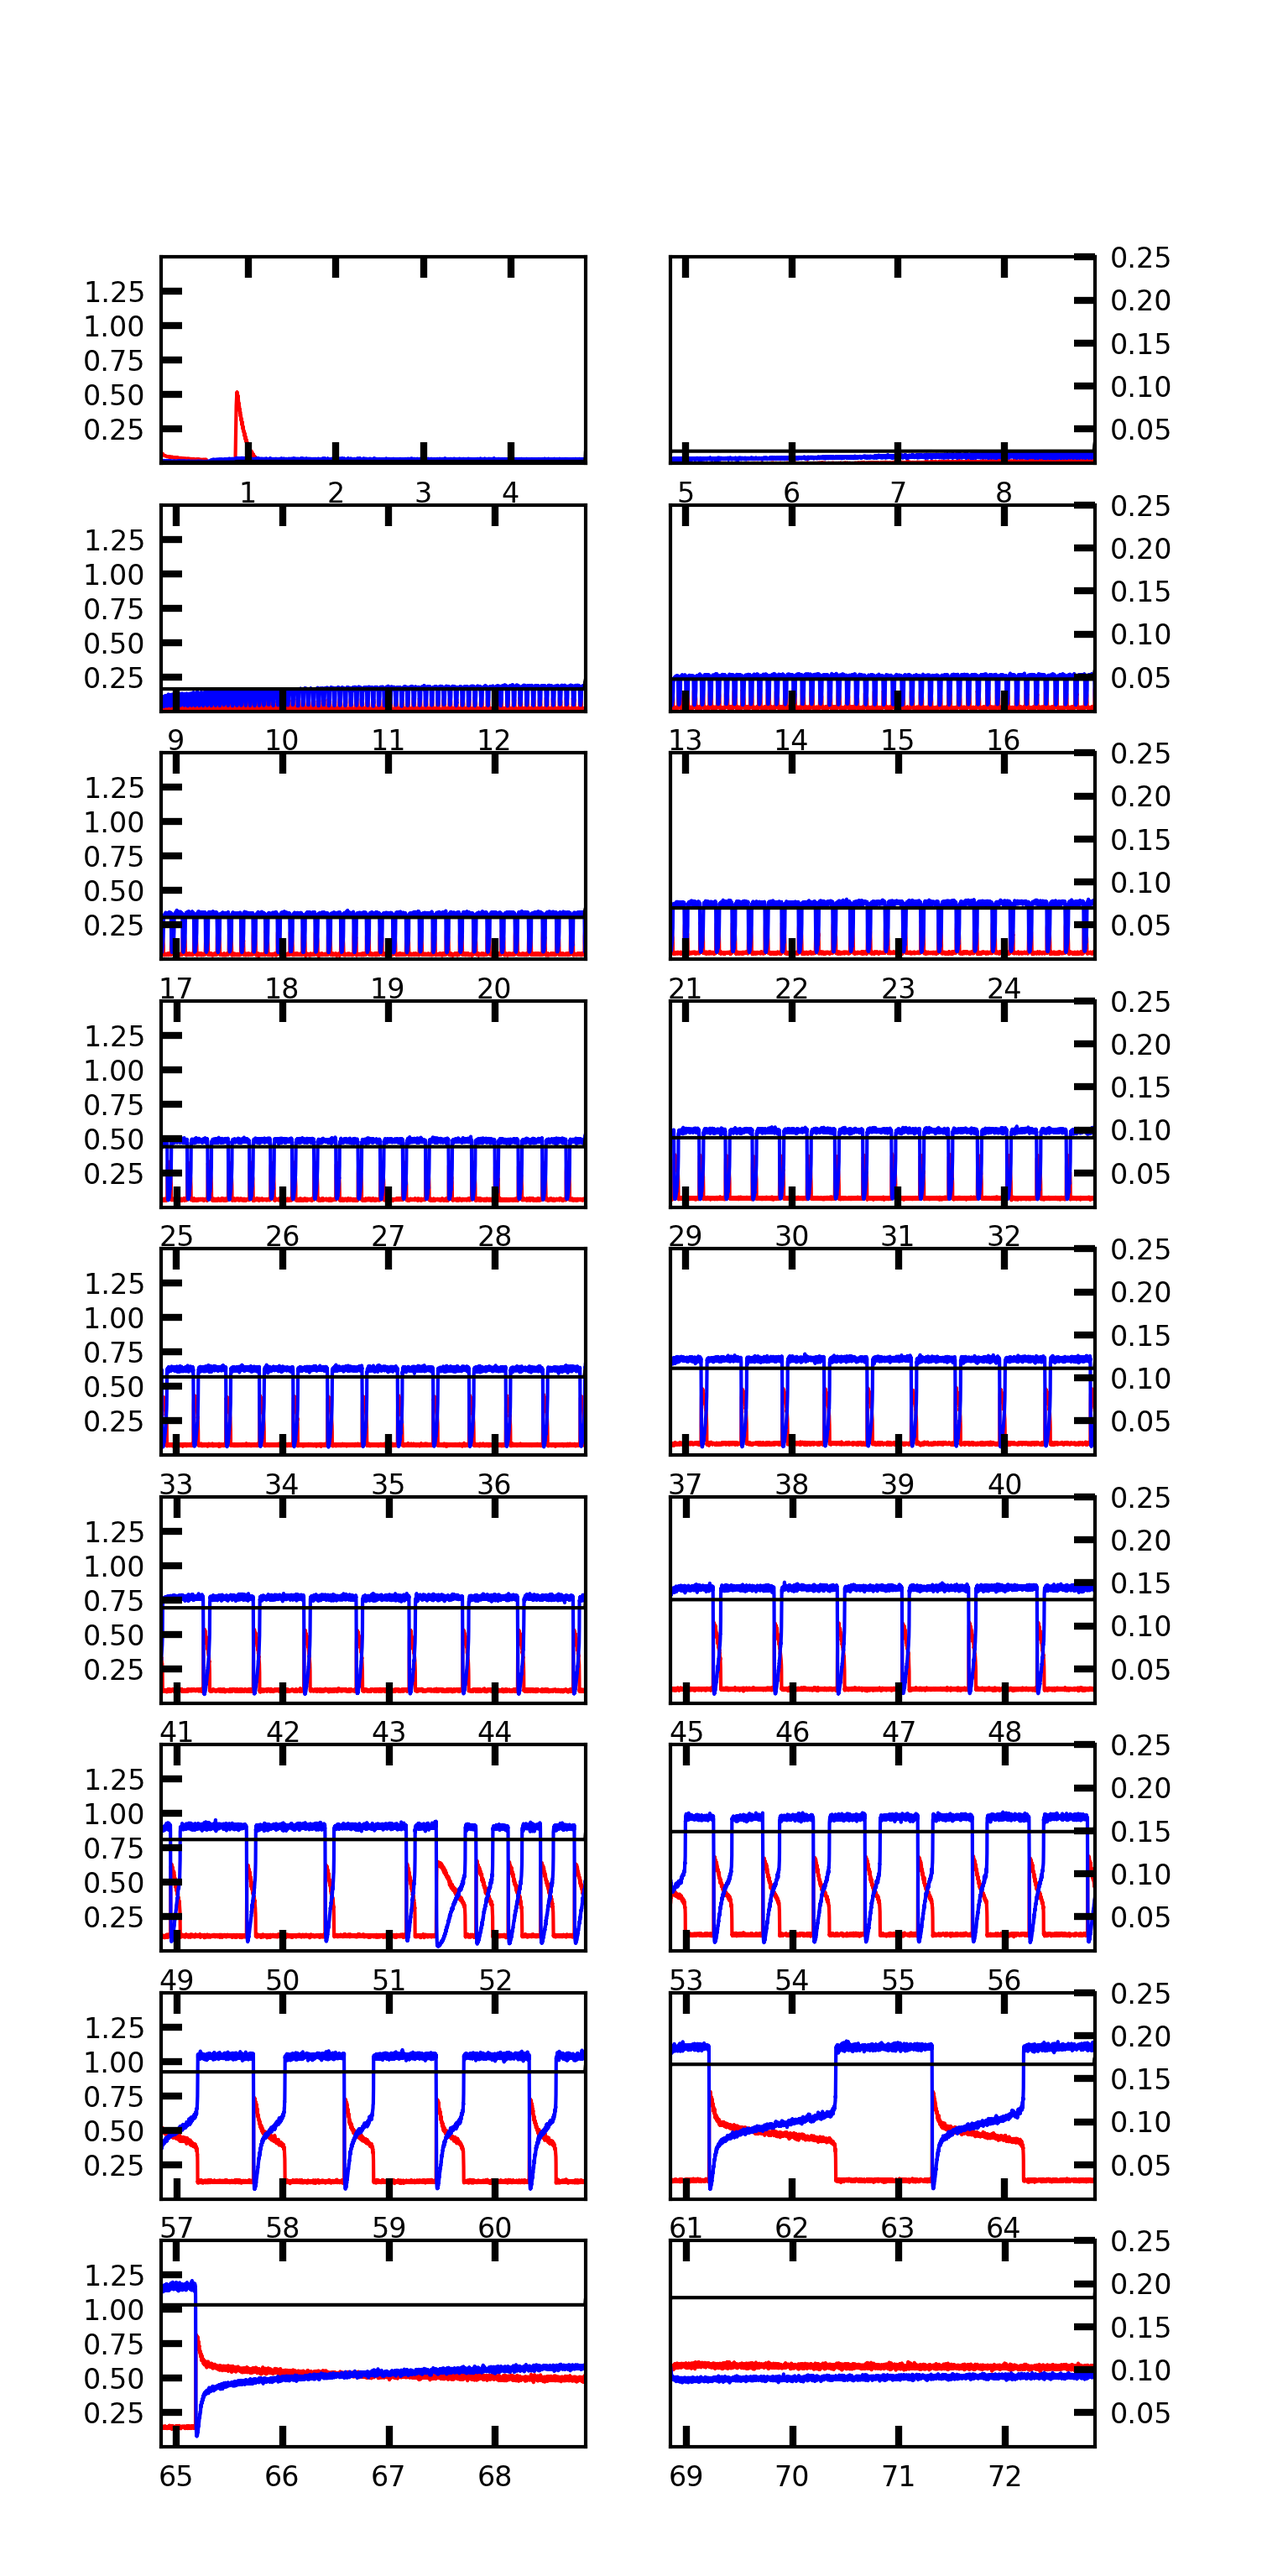
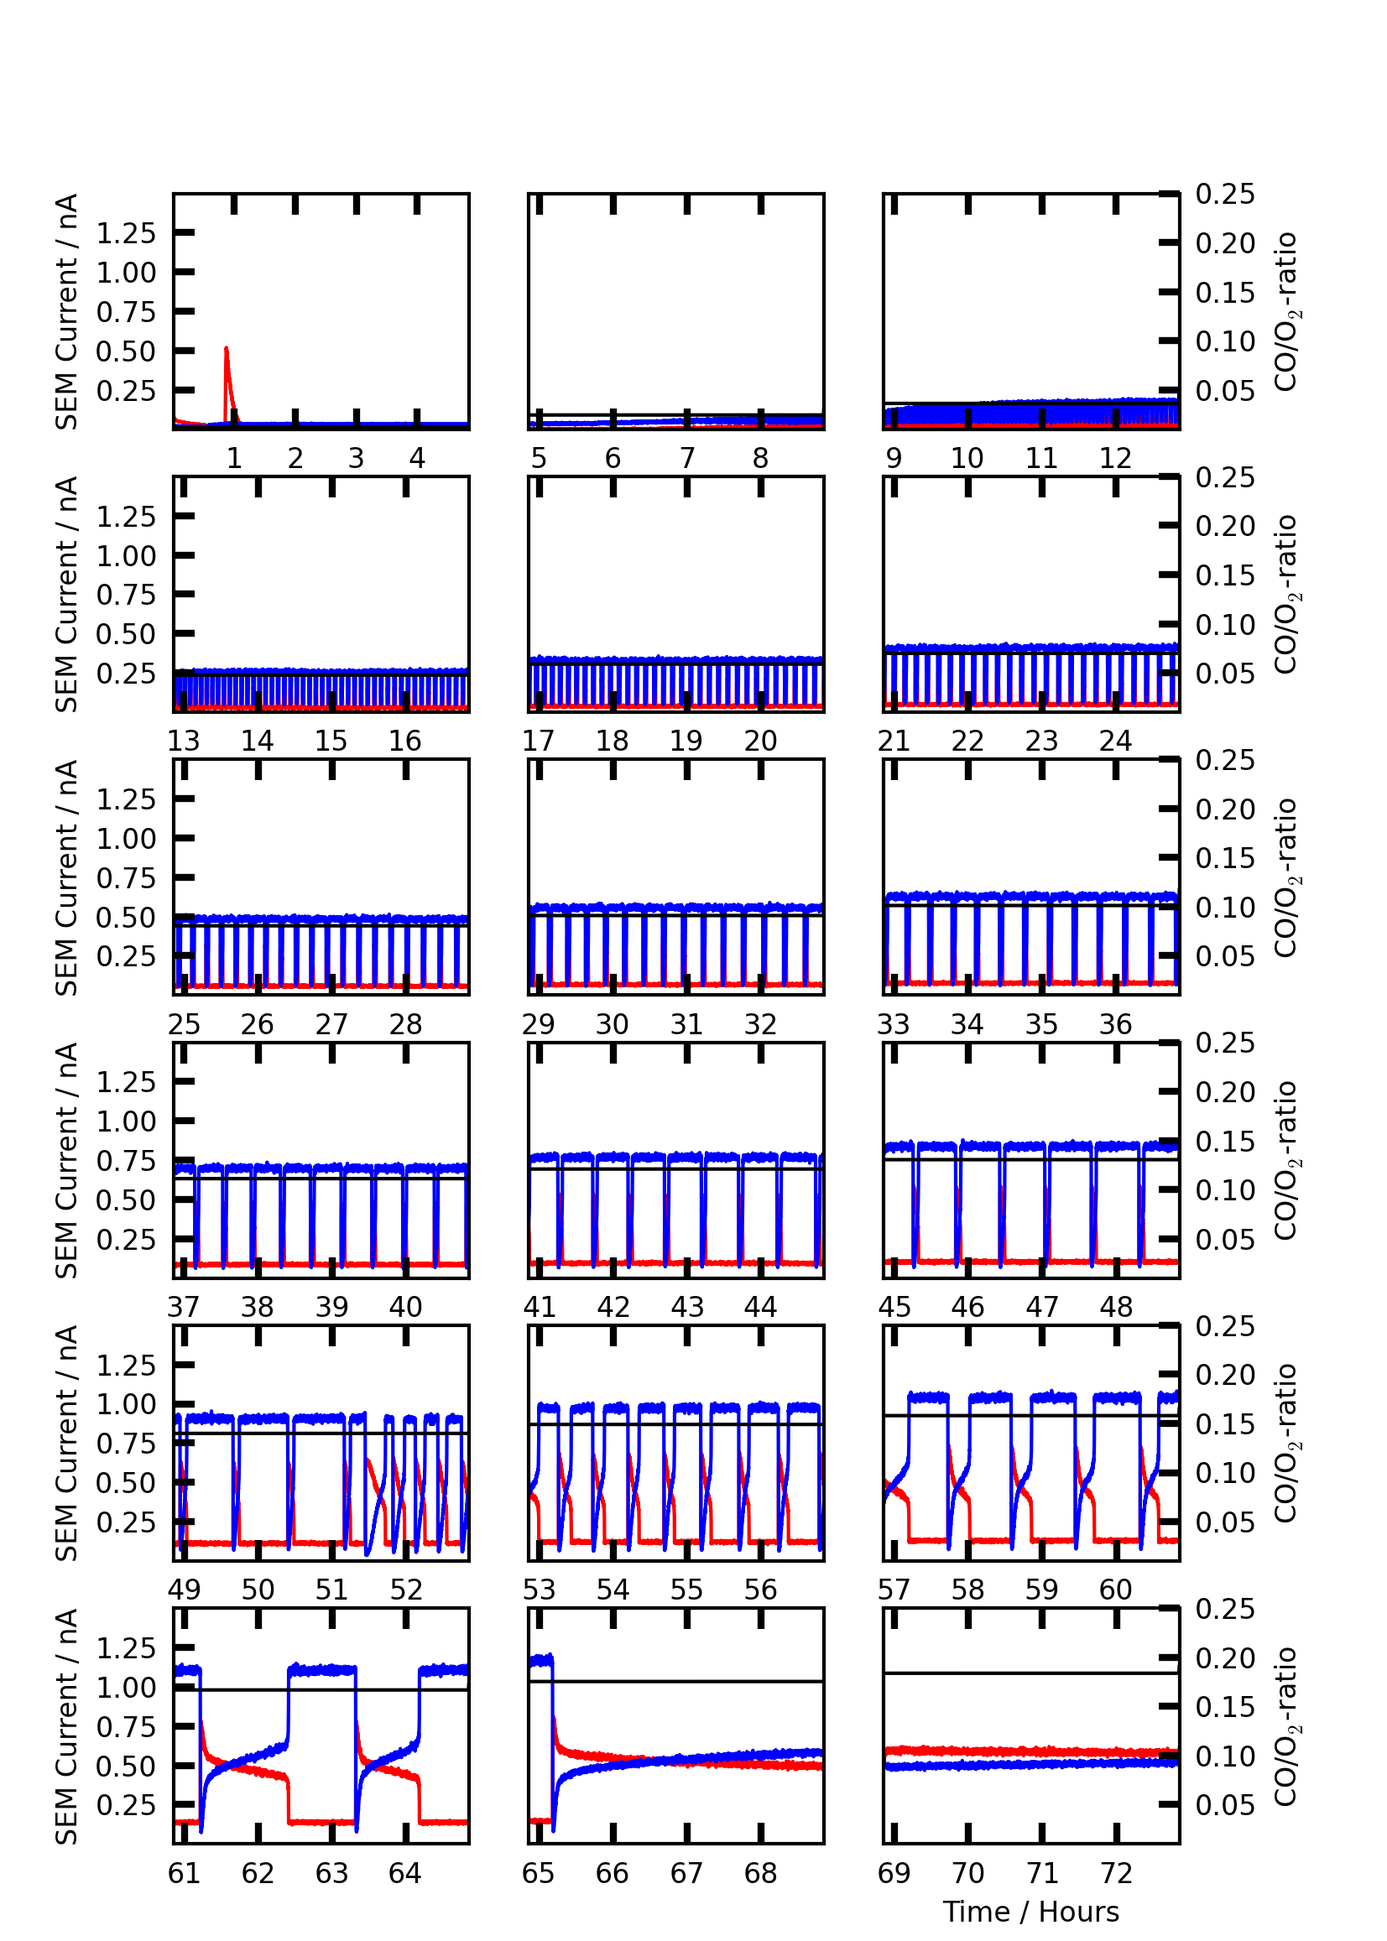
The supplementary material is now much closer to being finished

diff --git a/supplementary.tex b/supplementary.tex
@@ -67,29 +67,22 @@
 
 \twocolumn[
   \begin{@twocolumnfalse}
-\noindent\LARGE{\textbf{Self-sustained carbon monoxide oxidation oscillations on size-selected platinum nanoparticles at atmospheric pressure$^\dag$}}
+\noindent\LARGE{\textbf{Self-sustained carbon monoxide oxidation oscillations on size-selected platinum nanoparticles at atmospheric pressure\\ - Supplemental Material}}
 \vspace{0.6cm}
-
-\noindent\large{\textbf{Robert Jensen\textit{$^{a}$}, Thomas Andersen\textit{$^{a}$}, Anders Nierhoff\textit{$^{a}$}, Thomas Pedersen\textit{$^{b}$}, Ole Hansen\textit{$^{b}$}, Søren Dahl\textit{$^{a}$} and Ib Chorkendorff\textit{$^{a}$}}}\vspace{0.5cm}
-%Please note that \ast indicates the corresponding author(s) but no footnote text is required. 
-
-
-%\noindent\textit{\small{\textbf{Received Xth XXXXXXXXXX 20XX, Accepted Xth XXXXXXXXX 20XX\newline
-%First published on the web Xth XXXXXXXXXX 200X}}}
-
-%\noindent \textbf{\small{DOI: 10.1039/b000000x}}
-\vspace{0.6cm}
-%Please do not change this text.
-
-\noindent \normalsize{High-quality mass spectrometry data of the oscillatory behavior of CO oxidation on SiO$_2$ supported Pt-nanoparticles at atmospheric pressure has been acquired as a function of pressure, coverage, gas composition and nanoparticle size. The oscillations are self-sustained for several days at constant temperature, pressure and CO/O$_2$ ratio. The frequency of the oscillations is very well defined and increases over time. The oscillation frequency is furthermore strongly temperature dependent with increasing temperature resulting in increasing frequency. A plausible mechanism for the oscillations is proposed based on a oxidation/reduction cycle of the nanoparticles which change the rate of CO oxidation on the particles.}  %on an earlier model on Pd single crystals [Hendriksen \textit{et al., Nature Chemistry}, 2010, \textbf{9}, 730]}
-\vspace{0.5cm}
  \end{@twocolumnfalse}
   ]
 
 
-%\section{This is the section heading style}
-\section{Introduction}
+\section{The $\mu$-reactor platform}
 The experiments were performed in Si-based 20x15 mm $\mu$-reactors\cite{Henriksen2009}. The reactor consists of two inlets, a mixing zone allowing for diffusional mixing of reactants, an outlet, a reactor volume of $240\,$nL and a $5.4\,\mu$m wide capillary used for sniffing gases from the reactor volume. The reactor is sealed by anodic bonding of a pyrex lid to the Si reactor and is able to operate at a pressure range of 0-2.5\,bar. The reaction gases is supplied to the two inlets by flow controllers capable of controlling the gas flow from 0-10 mL/min. The capillary flow is fed into a quadropole mass-spectrometer (QMA) for analysis while any surplus of gas from the inlets are passed directly through to the outlet via a pressure controller allowing control of reactor pressure. The design makes sure that all gases exposed to the catalyst under investigation is measured by the QMA ensuring an extremely high sensitivity of the system. 
+
+\begin{figure}[h]
+  \centering
+  \includegraphics[width=9cm]{reactor.jpg}
+  \caption{The Microreactor before the lid is anodicly bonded to the reactor}
+  \label{fgr:reactor}
+\end{figure}
+
 
 Before any measurements are performed the reactor is pumped by a turbopump to minimize contaminants in the system. When an evacuated reactor is mounted the base pressure of the mass spectrometer chamber is $\sim5\times10^{-9}\,$mbar and in operation at $1\,$bar in the reactor volume the pressure is $\sim5\times10^{-7}\,$mbar in the QMA chamber. 
 
@@ -97,17 +90,11 @@ The reactor is heated by joule heating of a Pt strip evaporated on the backside 
 
 The gas handling including flow and pressured controllers and the mass spectrometer is fully automized allowing for measurements of several days without human intervention allowing for self-consistent measurements of many samples.
 
-\subsection{Pt nanoparticle deposition}
+\section{Pt nanoparticle deposition}
 Pt nanoparticles were deposited in the reactor using a gas-aggregation source (Mantis Deposition Ltd., Nanogen 50). Pt clusters were formed by gas-phase condensation of Pt atoms produced by impinging argon ions on a 99.99\% Pt target in a magnetron sputter source. After condensation the ionised fraction (60-80\%) of the clusters were size-selected by a quadropole mass selection filter according to their mass-to-charge ratio. Using this setup Pt nanoparticles with diameters in the range of 2--16\,nm can be produced \cite{Nielsen2010,Nielsen2009}. The size-selected nanoparticles were after size-selection soft-landed in the reactor volume of the microreactor. The coverage was kept at approximately 0.1\% geometric coverage determined by measuring the current on the reactor during deposition. After deposition the reactors were anodicly cold-bonded \cite{Vesborg2010} to a pyrex lid to avoid sintering of the nanoparticles while bonding.
 
-
-\begin{figure}[h]
-\centering
-  \includegraphics[width=13cm]{oscillations_gas_dependence_supplemental.png}
-  \caption{Complete series of oscillating sample. For every frame the CO-concentration is increased.}
-  \label{fgr:gas_dependence}
-\end{figure}
-
+\section{CO concentration dependence}
+The dependence of the CO concentration on the period of the oscillations was investigated. The result show that the period increases slightly with increasing CO-concentration. However, the effect is small compared to the general trend of slower oscillations as the experiment progresses. In Figure~\ref{fgr:gas_dependence_summary} the oscillation periods are summarized and the actual masspectrometry data of the entire experiment is shown in Figure~\ref{fgr:gas_dependence}.
 
 \begin{figure}[h]
   \centering
@@ -116,19 +103,32 @@ Pt nanoparticles were deposited in the reactor using a gas-aggregation source (M
   \label{fgr:gas_dependence_summary}
 \end{figure}
 
+\begin{figure*}
+  \centering
+  \includegraphics[width=14cm]{oscillations_gas_dependence_supplemental.png}
+  \caption{Complete series of oscillating sample, showing CO (red) and CO$_2$ (blue). The temperature is constant $210^\circ$C doing the entire measurement. For every frame the CO-concentration is increased.}
+  \label{fgr:gas_dependence}
+\end{figure*}
+
+\section{Temperature dependence}
+As mentioned in the main paper, the oscillations shows a very strong temperature dependence. In Figure~\ref{fgr:temperature_dependence_supplemental} we show an example where the oscillations are turned on and off by changing the temperature $20^\circ$C.
+
 \begin{figure}[h]
 \centering
   \includegraphics[width=9cm]{temperature_dependence_supplemental.png}
-  \caption{Another example of the very pronounced temperature dependence. In this case the oscillations are switched on and off by a step of 20$^\circ$C}
+  \caption{Another example of the very pronounced temperature dependence.}
   \label{fgr:temperature_dependence_supplemental}
 \end{figure}
+
+\section{Duty cycle}
+Even though the period of the oscillations increases with time, the total integrated conversion doing a complete cycle is almost constant. In Figure~\ref{fgr:duty_cycles_supplemental}, the value of the integral of CO and CO$_2$ is plotted for every oscillation in the four-day long experiment. It is evident that the ratio between CO and CO$_2$ is almost constant and thus the overall activity of the sample is almost unchanged despite the development in the oscillation frequency.
 
 
 \begin{figure}[h]
 \centering
   \includegraphics[width=9cm]{duty_cycles_long_measurement_supplemental.png}
-  \caption{A plot of the duty-cycle of the sample duing the 4-day long experiment}
-  \label{fgr:temperature_dependence_supplemental}
+  \caption{A plot of the duty-cycle of the sample duing the 4-day long experiment. The individual data-points is calculted as the integral of CO (red) or CO$_2$ (blue) doing the individual oscillations. The ratio between CO and CO$_2$ is drawn in black.}
+  \label{fgr:duty_cycles_supplemental}
 \end{figure}
 
 

diff --git a/python_figures/oscillations_gas_dependence.py b/python_figures/oscillations_gas_dependence.py
@@ -46,8 +46,8 @@ fig = plt.figure()
 fig.subplots_adjust(bottom=0.05) # Make room for x-label
 fig.subplots_adjust(right=0.85) # Make room for right y-label
 #ratio = 0.61803398              # Golden mean
-ratio = 2
-fig_width = 13
+ratio = 1.4
+fig_width = 14
 fig_width = fig_width /2.54     # width in cm converted to inches
 fig_height = fig_width*ratio
 fig.set_size_inches(fig_width,fig_height)
@@ -57,7 +57,7 @@ axis_array = []
 axis2_array = []
 
 for i in range(0,steps-1):
-    axis_array.append(fig.add_subplot((steps-1)/2,2,i+1))
+    axis_array.append(fig.add_subplot(6,3,i+1))
     axis_array[i].plot(data['M28'][:,0], data['M28'][:,1]*1e9, 'r-')
     axis_array[i].plot(data['M44'][:,0], data['M44'][:,1]*1e9, 'b-')
     #axis_array[i].set_ylim(0,0.1*(i+1)*1.85)
@@ -66,11 +66,21 @@ for i in range(0,steps-1):
     axis2_array.append(axis_array[i].twinx())
     axis2_array[i].plot(data['CO_FLOW'][:,0], data['CO_FLOW'][:,1]/(4+data['CO_FLOW'][:,1]), 'k-')
     axis2_array[i].set_ylim(0.01,0.25)
-    
-    if i%2 == 1:
+
+    if i%3 == 1:
+        axis2_array[i].set_yticks(())
+
+    if i%3 == 2:
+        axis2_array[i].set_ylabel('CO/O$_2$-ratio', fontsize=8)    
+
+    if i == 16:
+        axis_array[i].set_xlabel('Time / Hours', fontsize=8)    
+
+    if i%3 > 0:
         axis_array[i].set_yticks(())    
     else:
-        axis2_array[i].set_yticks(())    
+        axis2_array[i].set_yticks(())
+        axis_array[i].set_ylabel('SEM Current / nA', fontsize=8)    
     
     st = math.ceil(flow_sections[i])
     axis_array[i].set_xticks((st,st+1,st+2,st+3))

diff --git a/python_figures/duty_cycles_long_measurement.py b/python_figures/duty_cycles_long_measurement.py
@@ -79,19 +79,19 @@ fig_height = fig_width*ratio
 fig.set_size_inches(fig_width,fig_height)
 
 axis = fig.add_subplot(1,1,1)
-axis.plot(oscillations, m28_average, 'r.')
-axis.plot(oscillations, m44_average, 'b.')
-axis.plot(oscillations, eff, 'k.')
+axis.plot(oscillations, m28_average, 'r.',markersize=0.5)
+axis.plot(oscillations, m44_average, 'b.',markersize=0.5)
+axis.plot(oscillations, eff, 'k.',markersize=0.5)
 #axis.plot(data['M28'][:,0], data['M28'][:,1], 'r-')
 #axis.plot(data['M44'][:,0], data['M44'][:,1], 'b-')
-#axis.set_ylim(0,7)
-#axis.set_xlim(0,500)
+axis.set_ylim(1,4)
+axis.set_xlim(700,6000)
 
 axis.tick_params(direction='in', length=6, width=2, colors='k',labelsize=8,axis='both',pad=5)
-axis.grid(True)    
+axis.grid(False)    
 
 #axis.set_ylabel('SEM Current / nA', fontsize=20)
-axis.set_ylabel('Integrated charge (a.u.) / oscil.', fontsize=8)
+axis.set_ylabel('Integrated charge (a.u.)', fontsize=8)
 axis.set_xlabel('Time/minutes', fontsize=8)
 
 
